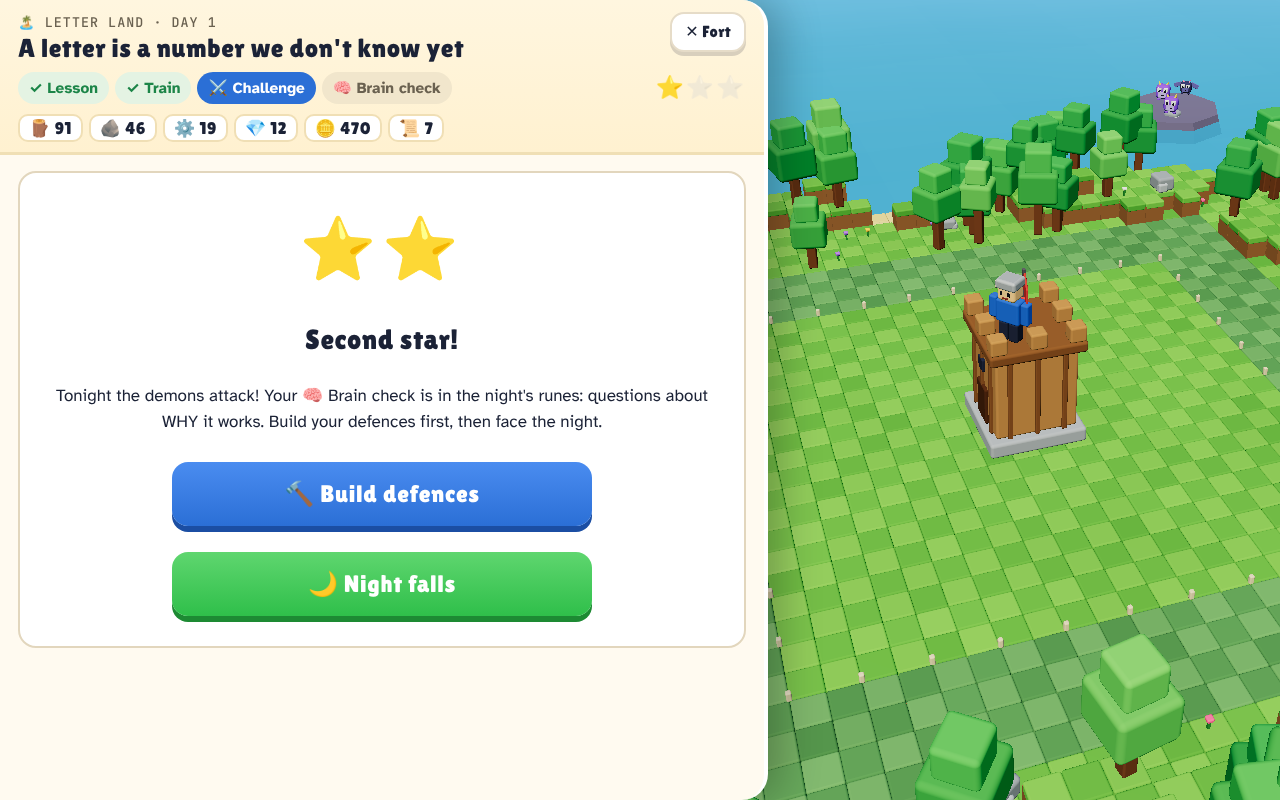
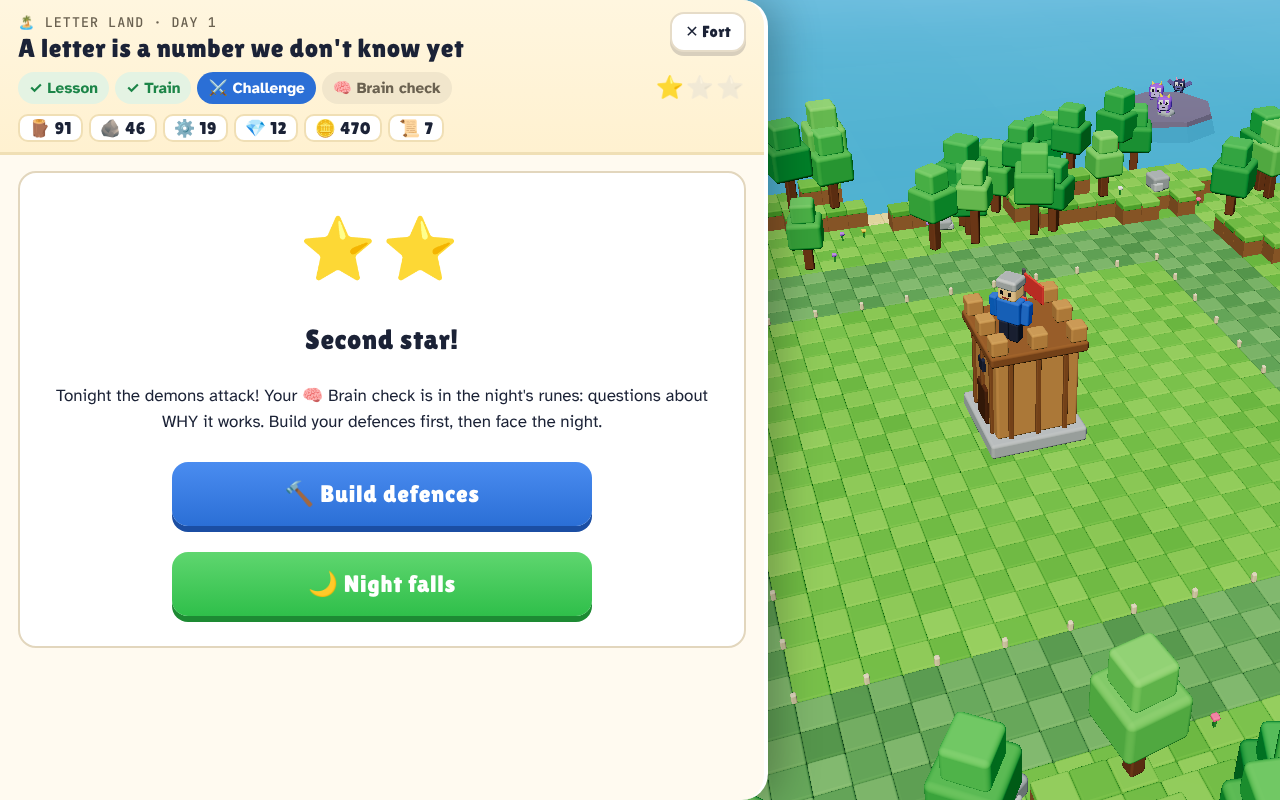
Oliver's Valley: closer view, bigger buildings, lanes only beside built plots, river edge, test clicks
Claude-Session: https://claude.ai/code/session_01RMG3H26G6wfQnC3vRUowvc

diff --git a/games/fort-defence/js/valley.js b/games/fort-defence/js/valley.js
@@ -10,7 +10,7 @@
    - It never gates anything and needs nothing managed: he can only look, turn the view and tap.
    Drawn with its own 3D stage (same blocky style as the forts); the fort's stage pauses while the valley is open. */
 import { THREE, createStage, block, group, mat, isTouch, reducedMotion, lowGfx } from "./gfx.js";
-import { makeTree, makeCloud, makeFlower, REGION_LOOK } from "./models.js";
+import { makeTree, makeFlower, REGION_LOOK } from "./models.js";
 import { mergeGeometries } from "../vendor/addons/BufferGeometryUtils.js";
 import { PACKS } from "../packs/index.js";
 import { STRATEGIES } from "../packs/reading/strategies.js";
@@ -248,20 +248,22 @@ export function createValley({ ui, h, save, prog, day, library, scribe, toast, s
     const N = HALF * 2, tiles = new THREE.InstancedMesh(new THREE.BoxGeometry(0.98, 0.3, 0.98), mat(0xffffff), N * N);
     tiles.receiveShadow = !lowGfx;
     const grass = [0x7cc35a, 0x76c257, 0x72c055, 0x6fbf55, 0x6cbe55][era], col = new THREE.Color(), dm = new THREE.Object3D();
-    const meadowFields = [];
+    const meadowFields = [], near = new Set();   // lanes show only beside plots that are built on (or signposted)
+    m.quarters.forEach(q => { const plots = plotsFor(q.slot), list = m.items.filter(i => i.q === q), n = Math.min(plots.length, list.filter(i => i.done).length + 1);
+      plots.slice(0, n).forEach(([x, z]) => { for (let a = -1; a <= 1; a++) for (let b = -1; b <= 1; b++) near.add((x + a) + "," + (z + b)); }); });
     let k = 0;
     for (let tx = -HALF; tx < HALF; tx++) for (let tz = -HALF; tz < HALF; tz++) {
       const kind = tileKind(tx, tz, used); let c = grass;
       if (kind === "road") c = era === 0 ? grass : era === 1 ? 0xb8935f : ((tx + tz) & 1 ? 0xbdb6a4 : 0xc6bfad);
-      else if (kind === "lane") c = era === 0 ? grass : era === 1 ? 0xc4a171 : 0xd0c8b2;
+      else if (kind === "lane") c = era === 0 || !near.has(tx + "," + tz) ? grass : era === 1 ? 0xc4a171 : 0xd0c8b2;
       else if (kind === "square") c = era === 0 ? (Math.hypot(tx + 0.5, tz + 0.5) < 2.6 ? 0xb8935f : grass) : era === 1 ? 0xc4a171 : ((tx + tz) & 1 ? 0xcfc8b6 : 0xd8d1c0);
       else if (kind === "meadow") meadowFields.push([tx, tz]);
       col.set(c); if (kind === "grass" || kind === "plot" || kind === "meadow" || (era === 0 && c === grass)) col.offsetHSL(0, 0, ((tx + tz) & 1) ? 0.015 : -0.015);
       dm.position.set(tx + 0.5, -0.15, tz + 0.5); dm.updateMatrix(); tiles.setMatrixAt(k, dm.matrix); tiles.setColorAt(k, col); k++;
     }
     world.add(tiles);
-    world.add(block(N, 2.2, N, 0x8a5a36, 0, -2.5, 0, { r: 0.1, cast: false }));
-    world.add(block(N + 14, 0.2, 7, 0x2fa7e6, 0, -0.55, HALF + 3.5, { r: 0, cast: false, receive: false }));
+    world.add(block(N, 2.2, N + 5, 0x8a5a36, 0, -2.5, 2.5, { r: 0.1, cast: false }));
+    world.add(block(N, 0.3, 5, 0x2fa7e6, 0, -0.42, HALF + 2.5, { r: 0, cast: false, receive: false }));
 
     // the quarters: one building per thing mastered, a signpost for what is next
     m.quarters.forEach(q => {
@@ -278,6 +280,7 @@ export function createValley({ ui, h, save, prog, day, library, scribe, toast, s
         } else if (!nextShown) { nextShown = true; obj = signpost(q.col); obj.rotation.y = 0.6; it.next = true; }
         else if (era >= 1 && q.slot !== "NW" && q.slot !== "NE" && (i % 2 === 0)) { /* empty tower plots become gardens */ obj = field(era >= 2); }
         if (!obj) return;
+        obj.userData.s = it.done ? 1.22 : 1.5; obj.scale.setScalar(obj.userData.s);
         obj.position.set(x, 0, z); obj.userData.item = it; it.obj = obj; world.add(obj);
         if (it.done || it.next) pickables.push(obj);
       });
@@ -292,7 +295,7 @@ export function createValley({ ui, h, save, prog, day, library, scribe, toast, s
     const fieldSpots = meadowFields.filter(([x, z]) => (x % 3 !== 2) && (z % 3 !== 2)).sort((a, b) => Math.hypot(a[0], a[1]) - Math.hypot(b[0], b[1]));
     fieldSpots.slice(0, [0, 6, 10, 14, 18][era]).forEach(([x, z]) => add(field(era >= 2), x + 0.5, z + 0.5));
     if (era >= 1) { add(windmill(), -15.5, 2.5, eraTip("🌾 The windmill", 1), Math.PI / 2); add(stall(0xe34b4b), -2.6, 2.6, eraTip("🧺 The market", 1)); add(stall(0x2f6fde), 2.6, -2.6, eraTip("🧺 The market", 1), Math.PI); add(stall(0xf2b134), -2.6, -2.6, eraTip("🧺 The market", 1), Math.PI); }
-    if (era >= 2) { add(fountain(), 0, 1.5, eraTip("⛲ The fountain", 2)); add(block(0.8, 0.12, 3.4, 0x8a6440, 0, -0.3, 0, { r: 0.02 }), 10.5, HALF + 1.2, eraTip("⚓ The harbour", 2)); add(boat(), 11.6, HALF + 2.4, eraTip("⚓ The harbour", 2)); }
+    if (era >= 2) { add(fountain(), 0, 1.5, eraTip("⛲ The fountain", 2)); add(block(0.8, 0.12, 3.4, 0x8a6440, 0, -0.04, 0, { r: 0.02 }), 10.5, HALF + 1.4, eraTip("⚓ The harbour", 2)); add(boat(), 11.6, HALF + 2.4, eraTip("⚓ The harbour", 2)); }
     if (era >= 3) {
       for (let v = -14; v <= 14; v += 4) [[-6.3, v], [6.3, v], [v, -6.3], [v, 6.3]].forEach(([x, z]) => { if (Math.abs(x) > 5 && Math.abs(z) > 5) return; add(lamp(), x + 0.5, z + 0.5); });
       for (let x = -15; x <= 15; x += 2.5) world.add(block(0.35, 1.7, 0.6, 0xc9c4b6, x, 0, -HALF + 0.6, { r: 0.04 }));
@@ -327,7 +330,6 @@ export function createValley({ ui, h, save, prog, day, library, scribe, toast, s
     }
     const busy = new Set(); world.children.forEach(o => busy.add(Math.floor(o.position.x) + "," + Math.floor(o.position.z)));
     trees.filter(([x, z]) => !busy.has(x + "," + z)).forEach(([x, z]) => { const t = makeTree(rnd, [0x3fae4a, 0x5cc556, 0x2f9a45]); t.scale.setScalar(0.42); t.position.set(x + 0.5, 0, z + 0.5); world.add(t); });
-    for (let i = 0; i < 5; i++) { const c = makeCloud(rnd); c.scale.setScalar(0.8); c.position.set((rnd() - 0.5) * 60, 16 + rnd() * 4, (rnd() - 0.5) * 50); c.userData.update = dt => { c.position.x += dt * 0.6; if (c.position.x > 40) c.position.x = -40; }; world.add(c); }
 
     // villagers walk the roads (more as his stars grow)
     const count = Math.min(lowGfx ? 6 : isTouch ? 26 : 40, 3 + Math.floor(m.totalStars * 0.27));
@@ -374,8 +376,8 @@ export function createValley({ ui, h, save, prog, day, library, scribe, toast, s
   function pop(dt) {
     if (!popping.length) return;
     popT += dt;
-    popping.forEach(p => { const k = Math.max(0, Math.min(1, (popT - p.at) / 0.45)); p.obj.scale.setScalar(k <= 0 ? 0.001 : k < 1 ? Math.max(0.001, k * (1 + 0.3 * Math.sin(k * Math.PI))) : 1); if (!p.played && k > 0) { p.played = true; sfx(p.big ? "horn" : "place"); } });
-    if (popping.every(p => popT > p.at + 0.5)) { popping.forEach(p => p.obj.scale.setScalar(1)); popping = []; }
+    popping.forEach(p => { const k = Math.max(0, Math.min(1, (popT - p.at) / 0.45)); p.obj.scale.setScalar((p.obj.userData.s || 1) * (k <= 0 ? 0.001 : k < 1 ? Math.max(0.001, k * (1 + 0.3 * Math.sin(k * Math.PI))) : 1)); if (!p.played && k > 0) { p.played = true; sfx(p.big ? "horn" : "place"); } });
+    if (popping.every(p => popT > p.at + 0.5)) { popping.forEach(p => p.obj.scale.setScalar(p.obj.userData.s || 1)); popping = []; }
   }
   function popIn(list, gap) {
     popT = 0; popping = list.filter(i => i.obj).map((i, n) => ({ obj: i.obj, at: 0.6 + n * gap, big: i.kind !== "day" && i.kind !== "floor" }));
@@ -384,7 +386,7 @@ export function createValley({ ui, h, save, prog, day, library, scribe, toast, s
   }
 
   /* ---------- turning, zooming and tapping ---------- */
-  const VIEW = { yaw: 0.75, pitch: 0.74, dist: isTouch ? 50 : 42, target: new THREE.Vector3(0, 0, 1.5) };
+  const VIEW = { yaw: 0.75, pitch: 0.8, dist: isTouch ? 50 : 42, target: new THREE.Vector3(0, -1, 1.5) };
   function controls() {
     const pts = new Map(); let moved = 0, pinch0 = 0, dist0 = 0;
     canvas.addEventListener("pointerdown", e => { pts.set(e.pointerId, { x: e.clientX, y: e.clientY }); moved = 0; stage.rig.autoSpin = 0; if (pts.size === 2) { const [a, b] = [...pts.values()]; pinch0 = Math.hypot(a.x - b.x, a.y - b.y); dist0 = stage.rig.dist; } try { canvas.setPointerCapture(e.pointerId); } catch (er) {} });
@@ -393,11 +395,11 @@ export function createValley({ ui, h, save, prog, day, library, scribe, toast, s
       const dx = e.clientX - p.x, dy = e.clientY - p.y; p.x = e.clientX; p.y = e.clientY; moved += Math.abs(dx) + Math.abs(dy);
       const R = stage.rig;
       if (pts.size === 1) { R.goal = null; R.yaw -= dx * 0.006; R.pitch = Math.max(0.38, Math.min(1.25, R.pitch + dy * 0.004)); }
-      else if (pts.size === 2 && pinch0) { const [a, b] = [...pts.values()]; R.goal = null; R.dist = Math.max(20, Math.min(64, dist0 * pinch0 / Math.max(20, Math.hypot(a.x - b.x, a.y - b.y)))); }
+      else if (pts.size === 2 && pinch0) { const [a, b] = [...pts.values()]; R.goal = null; R.dist = Math.max(20, Math.min(80, dist0 * pinch0 / Math.max(20, Math.hypot(a.x - b.x, a.y - b.y)))); }
     });
     const up = e => { const had = pts.delete(e.pointerId); if (had && moved < 8 && pts.size === 0) pick(e); if (pts.size < 2) pinch0 = 0; };
     canvas.addEventListener("pointerup", up); canvas.addEventListener("pointercancel", e => pts.delete(e.pointerId));
-    canvas.addEventListener("wheel", e => { e.preventDefault(); stage.rig.goal = null; stage.rig.dist = Math.max(20, Math.min(64, stage.rig.dist * (1 + Math.sign(e.deltaY) * 0.08))); }, { passive: false });
+    canvas.addEventListener("wheel", e => { e.preventDefault(); stage.rig.goal = null; stage.rig.dist = Math.max(20, Math.min(80, stage.rig.dist * (1 + Math.sign(e.deltaY) * 0.08))); }, { passive: false });
   }
   const ray = new THREE.Raycaster(), ndc = new THREE.Vector2();
   function pick(e) {
@@ -477,15 +479,15 @@ export function createValley({ ui, h, save, prog, day, library, scribe, toast, s
     const firstTime = !v.toured;
     if (firstTime) {
       const all = m.items.filter(i => i.done);
-      Object.assign(stage.rig, { dist: 70, pitch: 1.15 }); stage.flyTo({ dist: VIEW.dist, pitch: VIEW.pitch }, 3.2);
+      Object.assign(stage.rig, { dist: 80, pitch: 1.2 }); stage.flyTo({ dist: VIEW.dist, pitch: VIEW.pitch }, 3.2);
       popIn(all, Math.min(0.25, 3.5 / Math.max(1, all.length)));
       say(all.length ? "This is your valley. Everything here, you built by learning." : "This is your valley. Master your first day and the first house goes up!", 6000);
       v.toured = true;
     } else if (fresh.length) {
-      popIn(fresh, 0.7);
+      popIn(fresh, Math.min(0.7, 4 / fresh.length));
       const f = fresh[0], what = f.kind === "lord" || f.kind === "final" ? "a tower for " + f.title.replace(/^Beat /, "beating ") : "a new building for " + (f.kind === "floor" ? f.label : f.label.replace(/^.* · /, "")) + ": " + f.title;
       say("Your valley grew! " + (fresh.length > 1 ? fresh.length + " new buildings, including " : "") + what + ".", 5200);
-      if (f.obj) setTimeout(() => open_ && focus(f.obj, 26), 400);
+      if (f.obj && fresh.length <= 3) setTimeout(() => open_ && focus(f.obj, 30), 400);   // a big batch keeps the whole valley in view
     }
     if ((v.era || 0) < m.era && !firstTime) { setTimeout(() => { if (open_) { sfx("horn"); say(ERAS[m.era].grew, 5000); } }, fresh.length ? 2600 : 300); }
     v.era = m.era; v.seen = m.items.filter(i => i.done).map(i => i.id); v.v = 1;

diff --git a/games/fort-defence/tests/valley-test.js b/games/fort-defence/tests/valley-test.js
@@ -16,7 +16,7 @@ const log=(...a)=>console.log(...a); let fails=0; const check=(ok,msg)=>{ log((o
  const shot=async n=>{ if(SHOTS){ await p.waitForTimeout(1500); await p.screenshot({path:SHOTS+n+'.png'}); } };
  const go=async(q='')=>{ await p.goto('http://localhost:8853/games/fort-defence/?practice'+GFX+q); await p.waitForSelector(q.includes('valley')?'.vbar':'.logo',{timeout:30000}); };
  await go(); await p.evaluate(()=>{ __fd.save.resetPractice(); }); await go();
- await p.click('.btn.pulse'); await p.waitForSelector('.dawn .go-day');
+ await p.evaluate(()=>document.querySelector('.btn.pulse').click()); await p.waitForSelector('.dawn .go-day');
  log('1. new save');
  check(await p.locator('.dawn .valleybtn').count()===1,'dawn has a Valley button');
  check(await p.locator('.dawn .vgrew').count()===0,'no "valley grew" line before anything is mastered');
@@ -43,7 +43,7 @@ const log=(...a)=>console.log(...a); let fails=0; const check=(ok,msg)=>{ log((o
  const grew=await p.locator('.dawn .vgrew').textContent().catch(()=>''); check(/14 new buildings/.test(grew),'dawn: '+grew);
  check(await p.locator('.dawn .valleybtn .dot').count()===1,'Valley button has a dot');
  await p.evaluate(()=>document.querySelector('.dawn .vgrew .btn').click()); await p.waitForSelector('.vbar');
- await p.waitForSelector('.vcaption'); const cap=await p.locator('.vcaption').textContent(); check(/Your valley grew!/.test(cap),'caption: '+cap);
+ await p.waitForSelector('.vcaption'); const cap=await p.locator('.vcaption').textContent(); check(/Your valley grew!|grew into a Village/.test(cap),'caption: '+cap);
  await shot('valley-village');
  st=await p.evaluate(()=>{ const m=__fd.valley.model(); const built=__fd.valley.pickables.filter(o=>o.userData.item&&o.userData.item.done);
    const rep=built.find(o=>o.userData.item.key==='3'); return { era:m.era, done:m.done, built:built.length, scaff:rep?rep.children.length:0, bar:document.querySelector('.vbar').textContent }; });
@@ -76,7 +76,7 @@ const log=(...a)=>console.log(...a); let fails=0; const check=(ok,msg)=>{ log((o
  await p.click('.hud .chip.icon'); await p.waitForSelector('.dawn .go-day');
 
  log('4. reload');
- await p.waitForTimeout(800); await go(); await p.click('.btn.pulse'); await p.waitForSelector('.dawn .go-day');
+ await p.waitForTimeout(800); await go(); await p.evaluate(()=>document.querySelector('.btn.pulse').click()); await p.waitForSelector('.dawn .go-day');
  st=await p.evaluate(()=>({ v:__fd.save.state.valley, grew:document.querySelectorAll('.dawn .vgrew').length }));
  check(st.v&&st.v.name==='Oakhollow'&&st.v.seen.length===55&&st.v.era===4&&st.grew===0,'valley name, seen list and era kept; nothing new at dawn');
 
